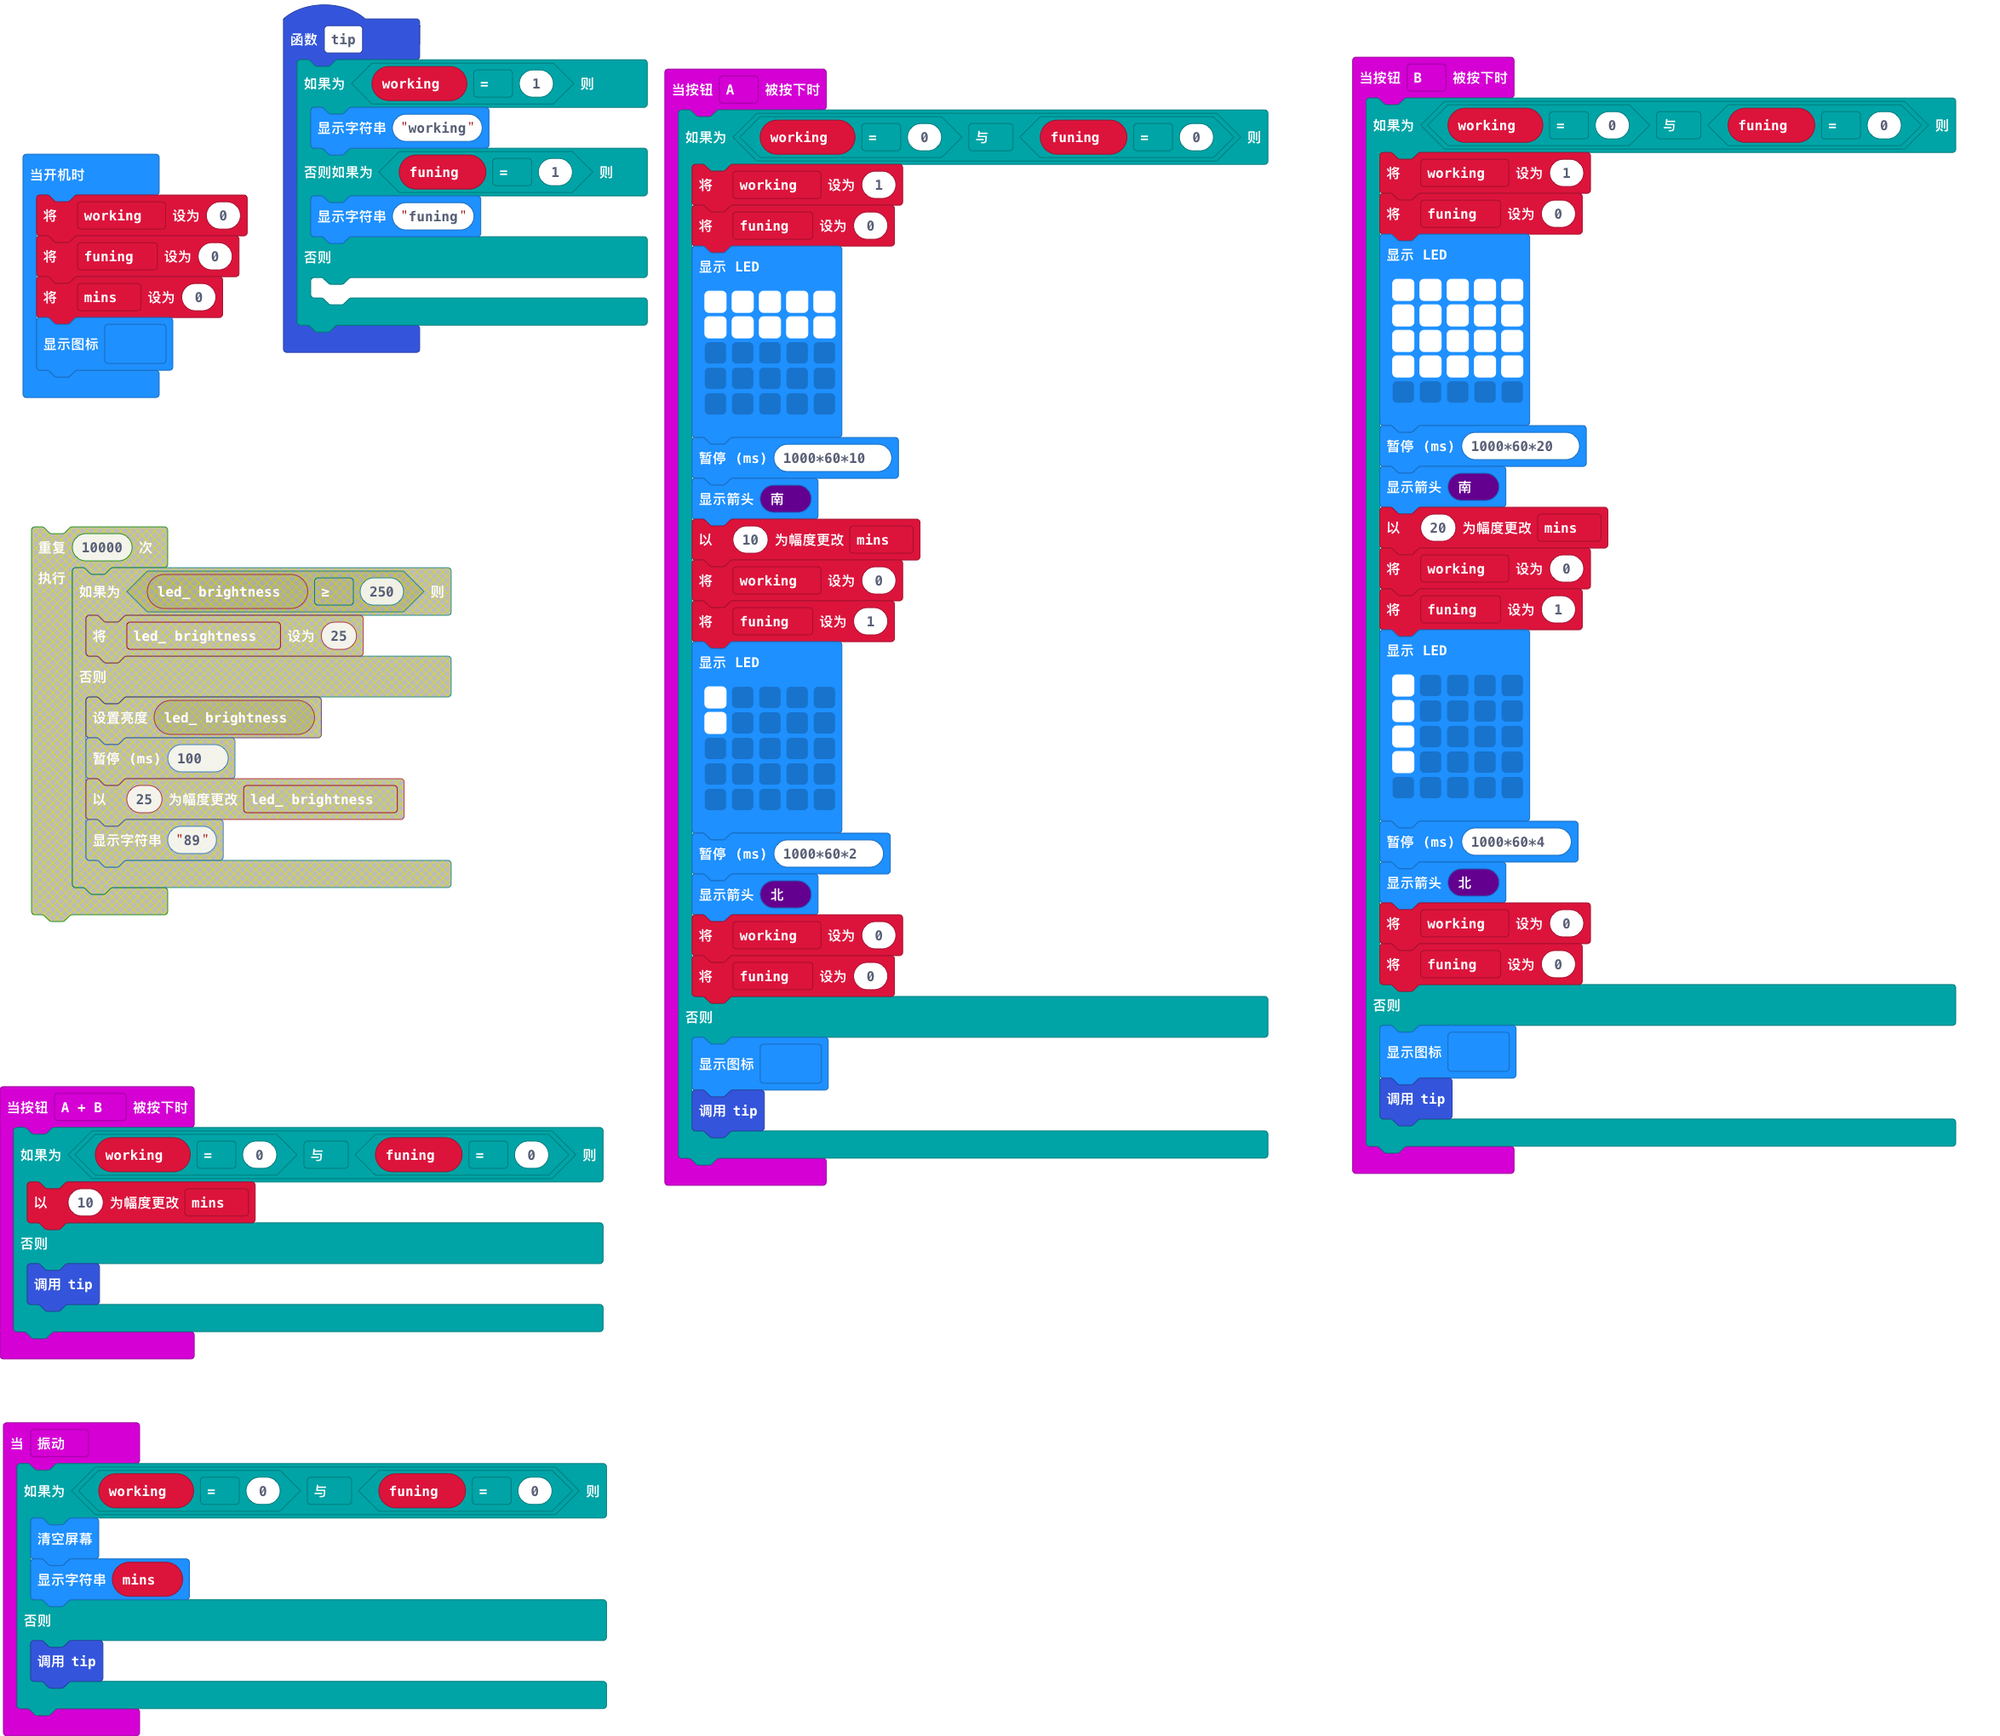
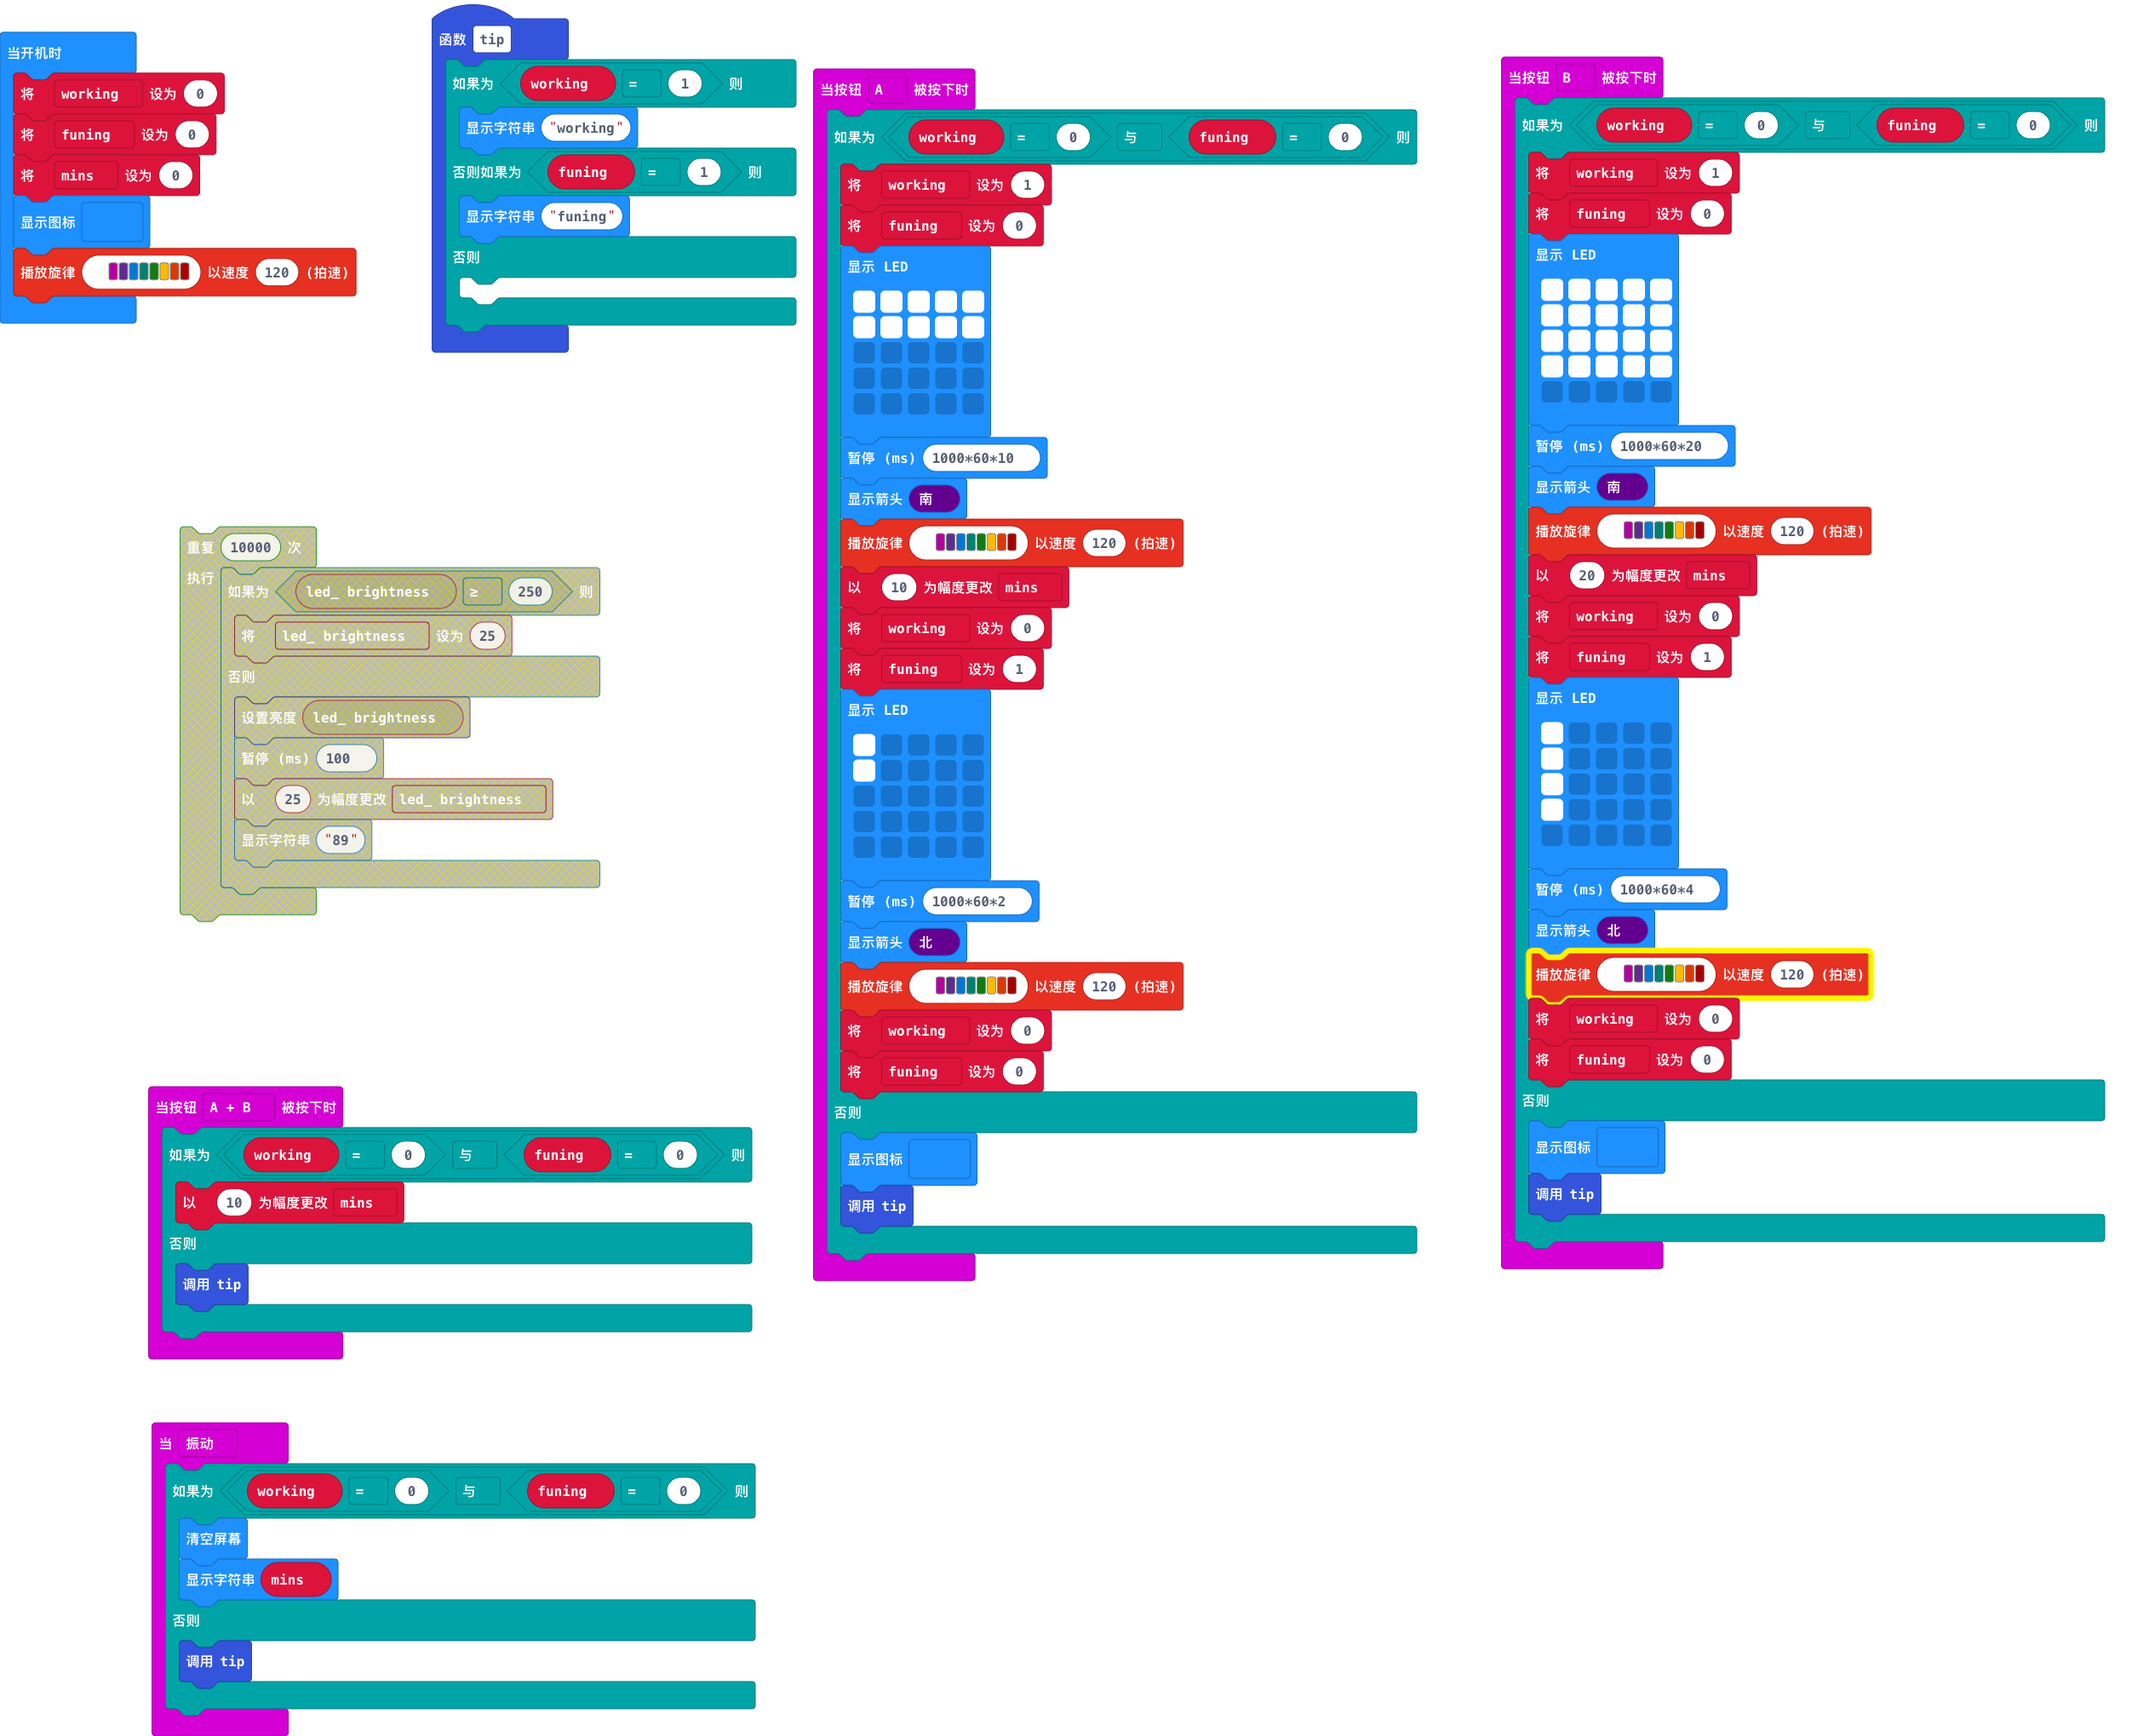
sound

diff --git a/main.ts b/main.ts
@@ -11,6 +11,7 @@ input.onButtonPressed(Button.A, function () {
             `)
         basic.pause(1000*60*10)
         basic.showArrow(ArrowNames.South)
+        music.playMelody("C D E F G A B C5 ", 120)
         mins += 10
         working = 0
         funing = 1
@@ -23,6 +24,7 @@ input.onButtonPressed(Button.A, function () {
             `)
         basic.pause(1000*60*2)
         basic.showArrow(ArrowNames.North)
+        music.playMelody("C D E F G A B C5 ", 120)
         working = 0
         funing = 0
     } else {
@@ -67,6 +69,7 @@ input.onButtonPressed(Button.B, function () {
             `)
         basic.pause(1000*60*20)
         basic.showArrow(ArrowNames.South)
+        music.playMelody("C D E F G A B C5 ", 120)
         mins += 20
         working = 0
         funing = 1
@@ -79,6 +82,7 @@ input.onButtonPressed(Button.B, function () {
             `)
         basic.pause(1000*60*4)
         basic.showArrow(ArrowNames.North)
+        music.playMelody("C D E F G A B C5 ", 120)
         working = 0
         funing = 0
     } else {
@@ -93,3 +97,4 @@ working = 0
 funing = 0
 mins = 0
 basic.showIcon(IconNames.Happy)
+music.playMelody("C D E F G A B C5 ", 120)
